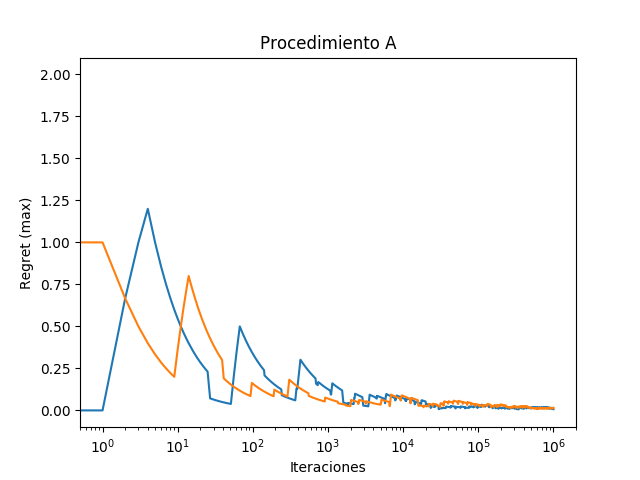
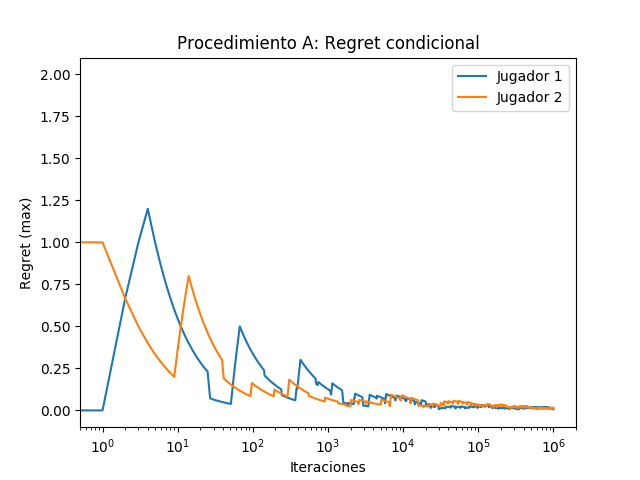
Nombres informativos y leyenda en gráficas

Changed region(s): [[0.2812, 0.0625, 0.75, 0.125], [0.7188, 0.125, 0.875, 0.2188]]

diff --git a/src/graphics.py b/src/graphics.py
@@ -1,19 +1,20 @@
 import matplotlib.pylab as plt
 import sys
 
-def make_plot(path_input, path_graph, proc):
+def make_plot(path_input, path_graph, proc, name):
     file = open(path_input)
     lines = file.readlines()
     file.close()
     regret1 = [float(lines[i].split()[0]) for i in range(len(lines))]
     regret2 = [float(lines[i].split()[1]) for i in range(len(lines))]
     plt.figure()
-    plt.title('Procedimiento ' + proc)
+    plt.title('Procedimiento ' + proc + ': ' + name)
     plt.xscale('log')
-    plt.plot(regret1)
-    plt.plot(regret2)
+    plt.plot(regret1, label='Jugador 1')
+    plt.plot(regret2, label='Jugador 2')
     plt.ylabel('Regret (max)')
     plt.xlabel('Iteraciones')
+    plt.legend()
     plt.savefig(path_graph)
 
 if __name__ == "__main__":
@@ -26,10 +27,13 @@ if __name__ == "__main__":
     path_input_list = path_input_list + list('.txt')
     path_graph_list = path_graph_list + list('.png')
     procs = ['A', 'B', 'C']
-    for i in procs:
-        path_input_list[pos_input] = i
-        path_graph_list[pos_graph] = i
+    names = [   'Regret condicional',
+                'Vector invariante de probabilidad',
+                'Regret incondicional']
+    for i in range(3):
+        path_input_list[pos_input] = procs[i]
+        path_graph_list[pos_graph] = procs[i]
         path_input = ''.join(path_input_list)
         path_graph = ''.join(path_graph_list)
-        make_plot(path_input, path_graph, i)
+        make_plot(path_input, path_graph, procs[i], names[i])
 
